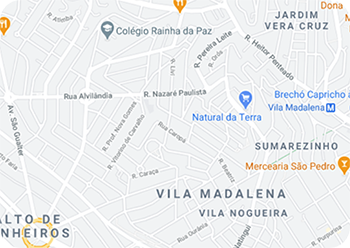
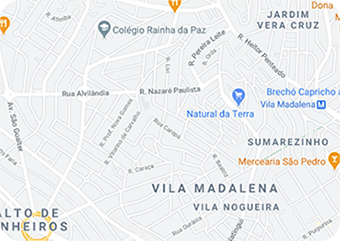
Pequenas correções no mobile

diff --git a/src/styles/index.module.css b/src/styles/index.module.css
@@ -375,8 +375,9 @@
     position: absolute;
     z-index: -1;
     overflow: hidden;
-    left: -730px;
+    left: -740px;
     margin: 40px 0 0 0;
+    align-self: center;
 }
 
 .tituloContratacao {
@@ -412,7 +413,7 @@
     position: absolute;
     z-index: 0;
     overflow: hidden;
-    margin: 380px 0 0 -120px;
+    margin: 380px 0 0 -125px;
     transform: rotate(240deg);
 }
 
@@ -586,7 +587,7 @@
     position: absolute;
     z-index: 0;
     overflow: hidden;
-    margin: 650px 0 0 320px;
+    margin: 650px 0 0 350px;
     transform: rotate(280deg);
 }
 
@@ -621,8 +622,8 @@
 
 .mapaContato {
     background-image: url(../assets/mobile/mapa.png);
-    width: 350px;
-    height: 248px;
+    width: 340px;
+    height: 241px;
     margin: 15px auto 0 auto;
 }
 
@@ -635,7 +636,7 @@
     background-image: url(../assets/mobile/logop.png);
     width: 123px;
     height: 37px;
-    margin: 50px 0 30px 30px;
+    margin: 50px 0 30px 20px;
     cursor: pointer;
 }
 
@@ -643,7 +644,7 @@
     display: flex;
     justify-content: space-around;
     width: 200px;
-    margin: -70px 0 0 205px;
+    margin: -70px 0 0 195px;
 }
 
 .logoFacebook {
@@ -671,7 +672,7 @@
     font-size: 10px;
     line-height: 40px;
     text-align: center;
-    margin: 20px 0 10px 0;
+    margin: 40px 0 10px 0;
 }
 
 .menuOpcoes2 {
